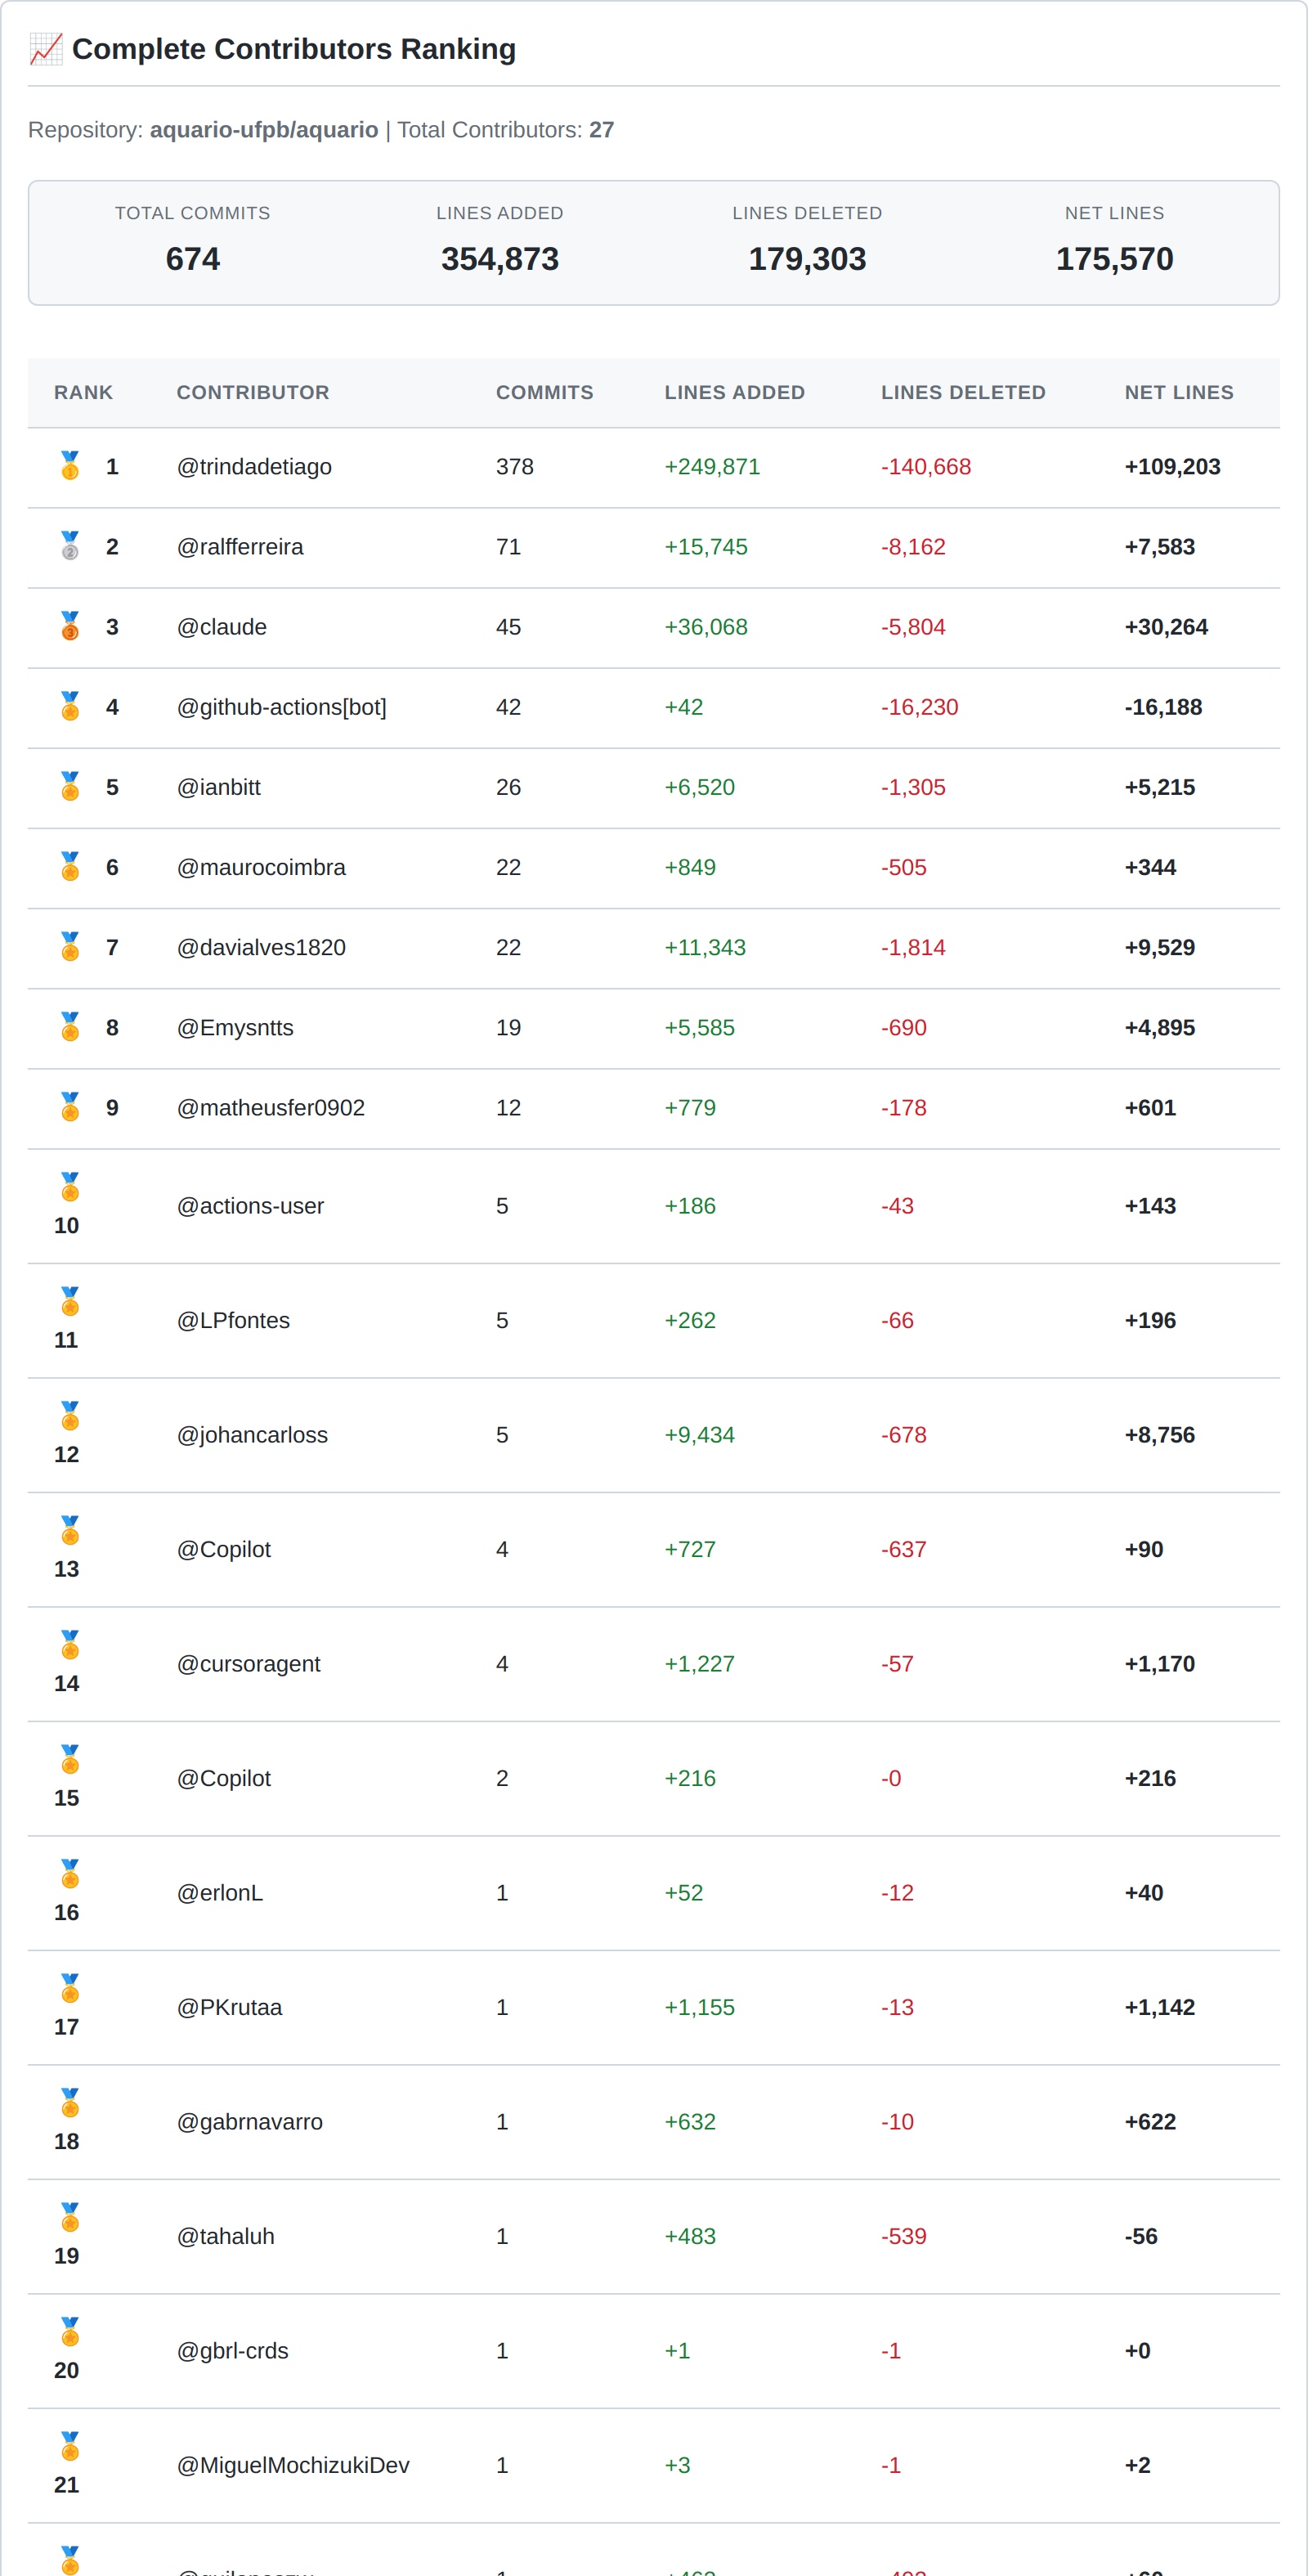
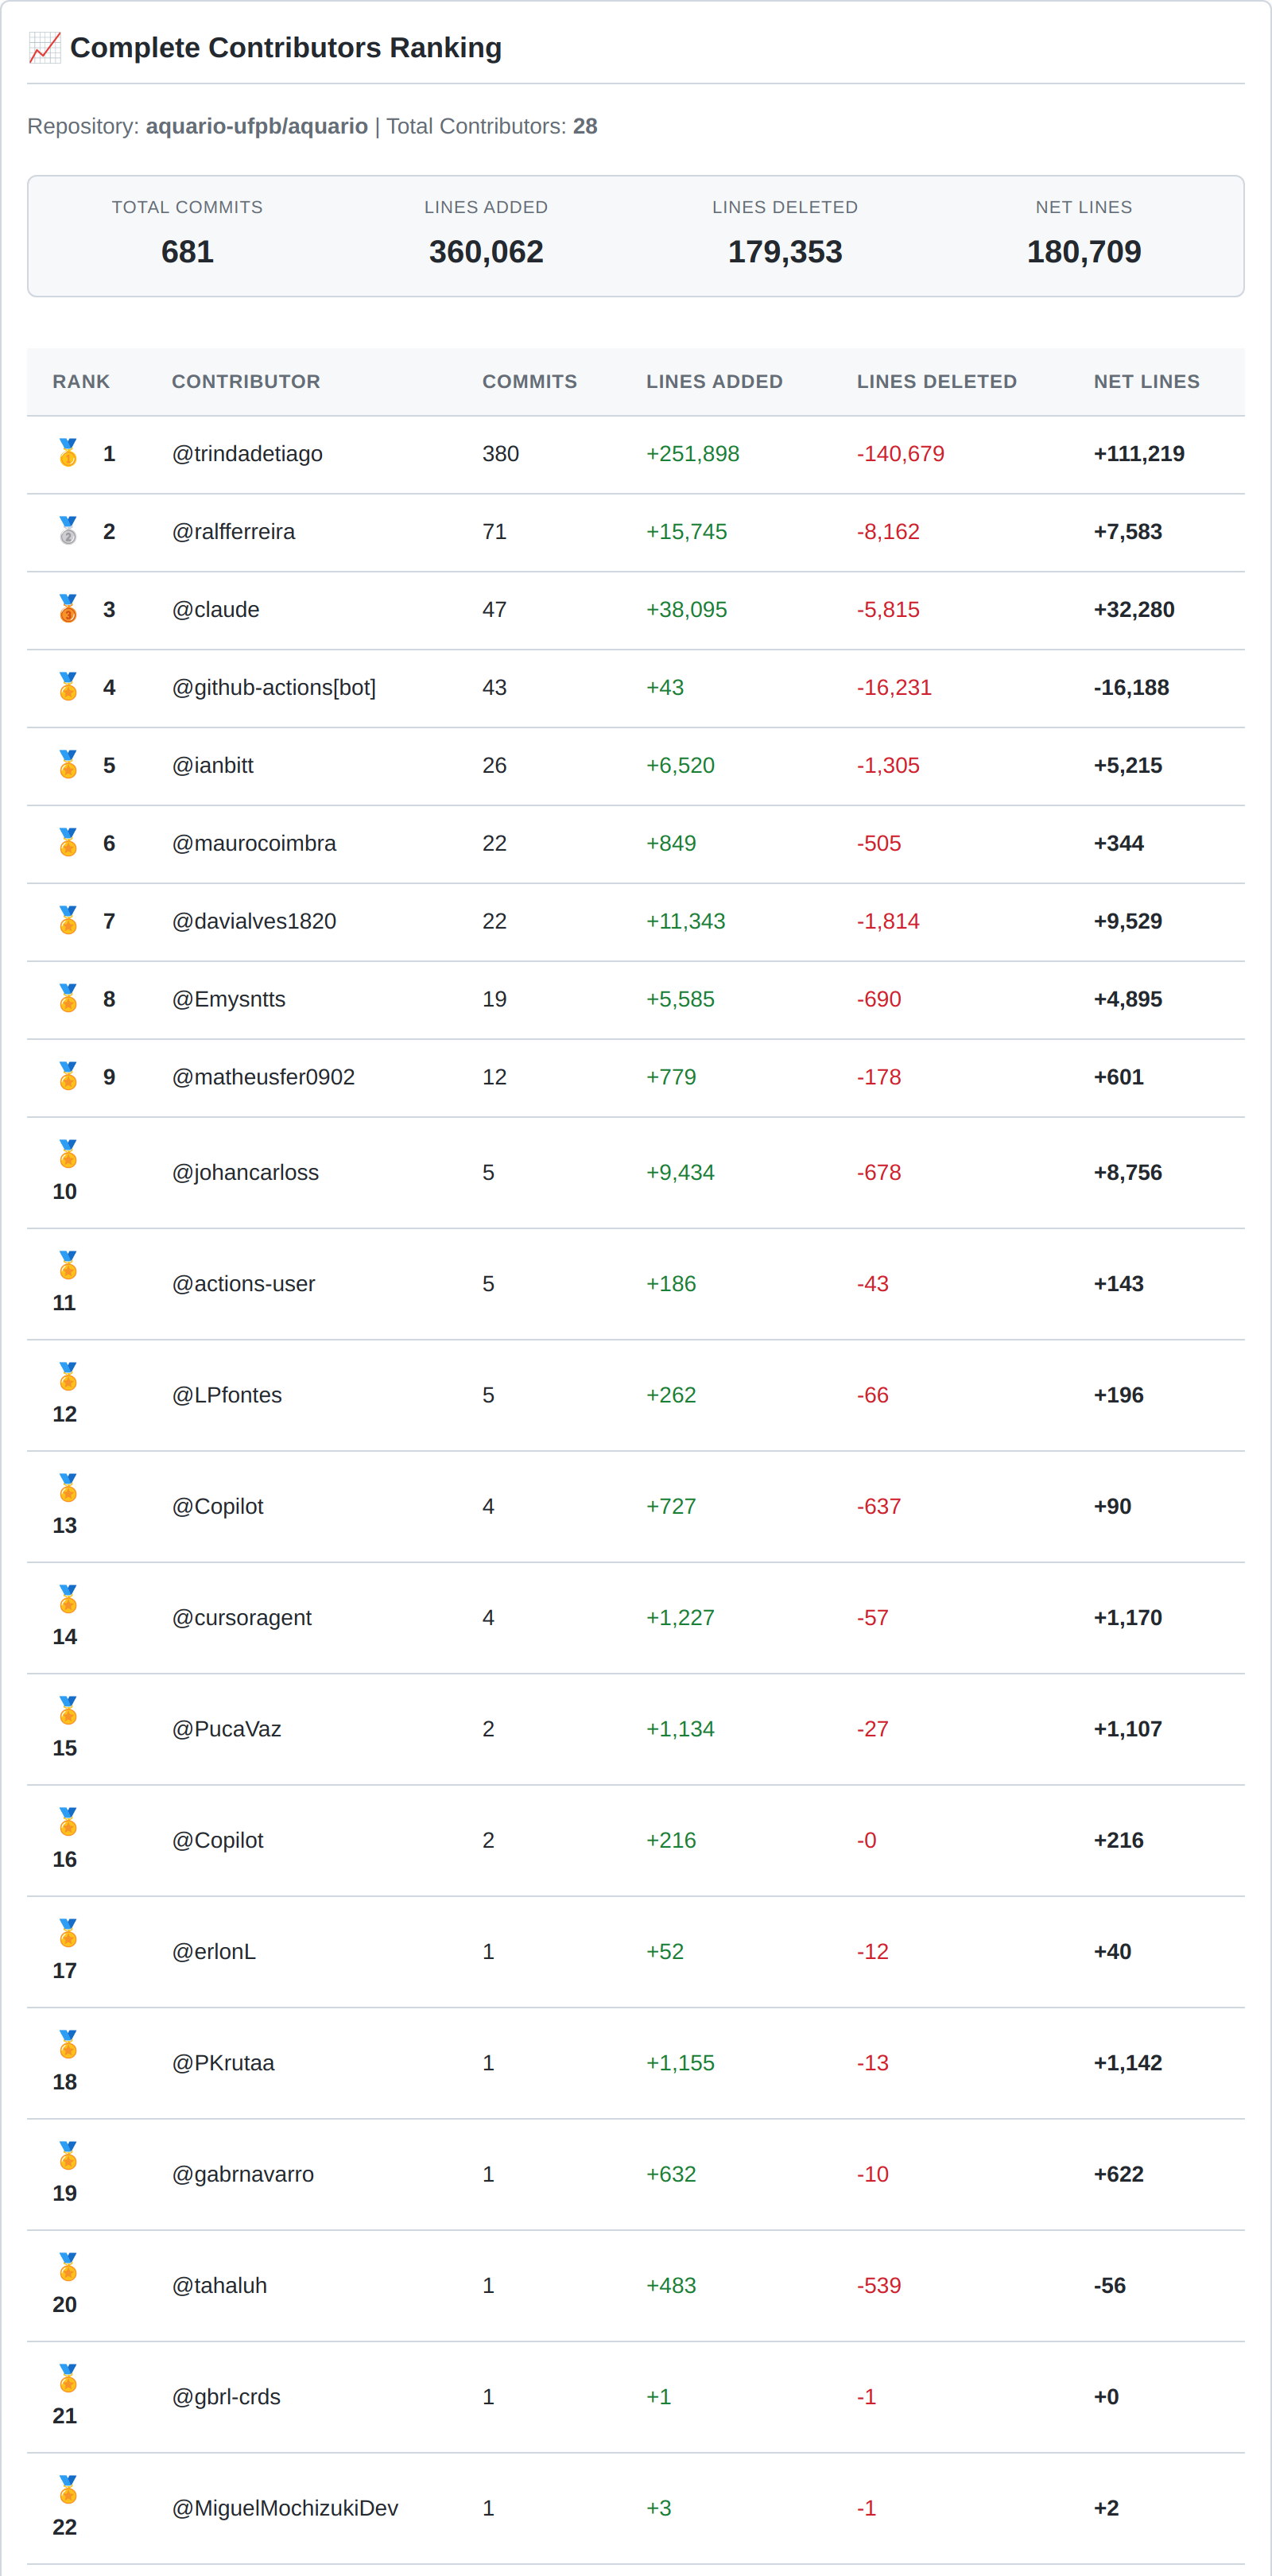
📊 Update contributor insights and visualizations [skip ci]

diff --git a/CONTRIBUTOR_INSIGHTS.md b/CONTRIBUTOR_INSIGHTS.md
@@ -1,7 +1,7 @@
 # 📊 Contributor Insights
 
 > **Repository:** aquario-ufpb/aquario  
-> **Last Updated:** Sunday, June 7, 2026 at 06:36 AM  
+> **Last Updated:** Sunday, June 14, 2026 at 06:48 AM  
 > **Generated by:** [GitHub Action](.github/workflows/contributor-insights.yml)
 
 ---
@@ -10,12 +10,12 @@
 
 | Metric | Value |
 |--------|-------|
-| **Total Contributors** | 27 |
-| **Total Commits** | 674 |
-| **Total Lines Added** | +354,873 |
-| **Total Lines Deleted** | -179,303 |
-| **Net Lines Changed** | +175,570 |
-| **Average Commits per Contributor** | 25 |
+| **Total Contributors** | 28 |
+| **Total Commits** | 681 |
+| **Total Lines Added** | +360,062 |
+| **Total Lines Deleted** | -179,353 |
+| **Net Lines Changed** | +180,709 |
+| **Average Commits per Contributor** | 24 |
 | **Most Active Contributor** | [@trindadetiago](https://github.com/trindadetiago) |
 | **Activity Trend** | 📉 decreasing |
 
@@ -25,10 +25,10 @@
 
 | Rank | Contributor | Commits | Lines Added | Lines Deleted | Net Lines |
 |------|-------------|---------|-------------|---------------|-----------|
-| 🥇 1 | [@trindadetiago](https://github.com/trindadetiago) | 378 | +249,871 | -140,668 | +109,203 |
+| 🥇 1 | [@trindadetiago](https://github.com/trindadetiago) | 380 | +251,898 | -140,679 | +111,219 |
 | 🥈 2 | [@ralfferreira](https://github.com/ralfferreira) | 71 | +15,745 | -8,162 | +7,583 |
-| 🥉 3 | [@claude](https://github.com/claude) | 45 | +36,068 | -5,804 | +30,264 |
-| 🏅 4 | [@github-actions[bot]](https://github.com/github-actions[bot]) | 42 | +42 | -16,230 | -16,188 |
+| 🥉 3 | [@claude](https://github.com/claude) | 47 | +38,095 | -5,815 | +32,280 |
+| 🏅 4 | [@github-actions[bot]](https://github.com/github-actions[bot]) | 43 | +43 | -16,231 | -16,188 |
 | 🏅 5 | [@ianbitt](https://github.com/ianbitt) | 26 | +6,520 | -1,305 | +5,215 |
 
 ---
@@ -36,22 +36,22 @@
 ## 📈 Activity Analysis
 
 ### Weekly Activity Highlights
-- **Most Active Week:** 2025-11-02 (69 commits by 26 contributors)
-- **Least Active Week:** 2024-07-21 (1 commits by 26 contributors)
+- **Most Active Week:** 2025-11-02 (69 commits by 27 contributors)
+- **Least Active Week:** 2024-07-21 (1 commits by 27 contributors)
 
 ### Recent Activity (Last 4 Weeks)
-- **Total Commits:** 6
-- **Average per Week:** 2
+- **Total Commits:** 11
+- **Average per Week:** 3.7
 - **Weeks with Activity:** 3/3
-- **Lines Added:** +110
-- **Lines Deleted:** -3,816
-- **Net Lines:** -3,706
+- **Lines Added:** +5,284
+- **Lines Deleted:** -501
+- **Net Lines:** +4,783
 
 ---
 
 ## 🆕 Recent Contributors
 
-No new contributors in the last 4 weeks
+- [@PucaVaz](https://github.com/PucaVaz) - 2 commits (first commit: 2026-06-07)
 
 ---
 
@@ -59,9 +59,9 @@ No new contributors in the last 4 weeks
 
 | Range | Contributors | Percentage |
 |-------|-------------|------------|
-| 1-5 commits | 18 | 67% |
+| 1-5 commits | 19 | 68% |
 | 6-20 commits | 2 | 7% |
-| 21-50 commits | 5 | 19% |
+| 21-50 commits | 5 | 18% |
 | 51-100 commits | 1 | 4% |
 | 100+ commits | 1 | 4% |
 
@@ -71,9 +71,9 @@ No new contributors in the last 4 weeks
 
 | Period | Commits | Contributors | Activity Level |
 |--------|---------|-------------|----------------|
-| **Last 4 weeks** | 6 | 3 active | 2 avg/week |
-| **Last 8 weeks** | 58 | 7 active | 8.3 avg/week |
-| **All time** | 674 | 27 | 12 avg/week |
+| **Last 4 weeks** | 11 | 3 active | 3.7 avg/week |
+| **Last 8 weeks** | 51 | 7 active | 7.3 avg/week |
+| **All time** | 681 | 28 | 12 avg/week |
 
 ---
 
@@ -81,7 +81,7 @@ No new contributors in the last 4 weeks
 
 This report is automatically generated every **Sunday at 2 AM UTC** by a GitHub Action. You can also trigger it manually from the Actions tab.
 
-**Last run:** 2026-06-07T06:36:08.886Z
+**Last run:** 2026-06-14T06:48:01.317Z
 
 ---
 